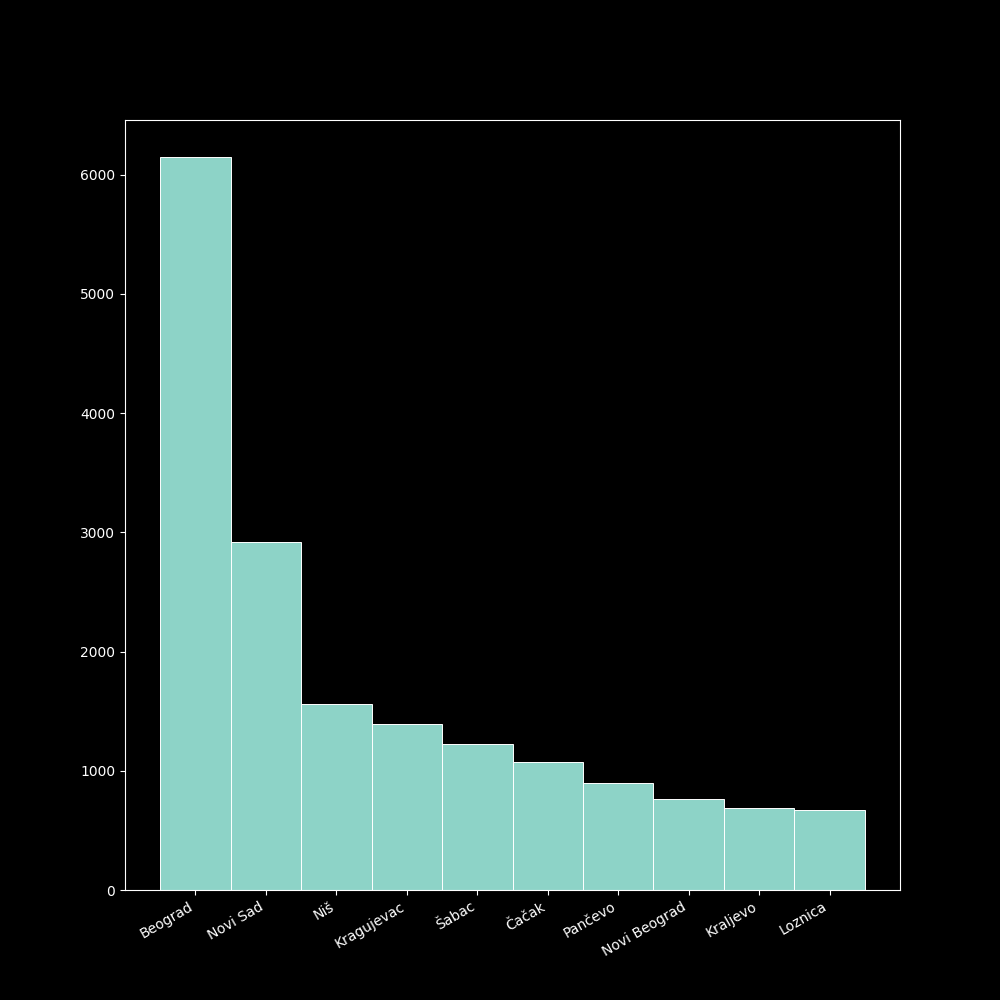
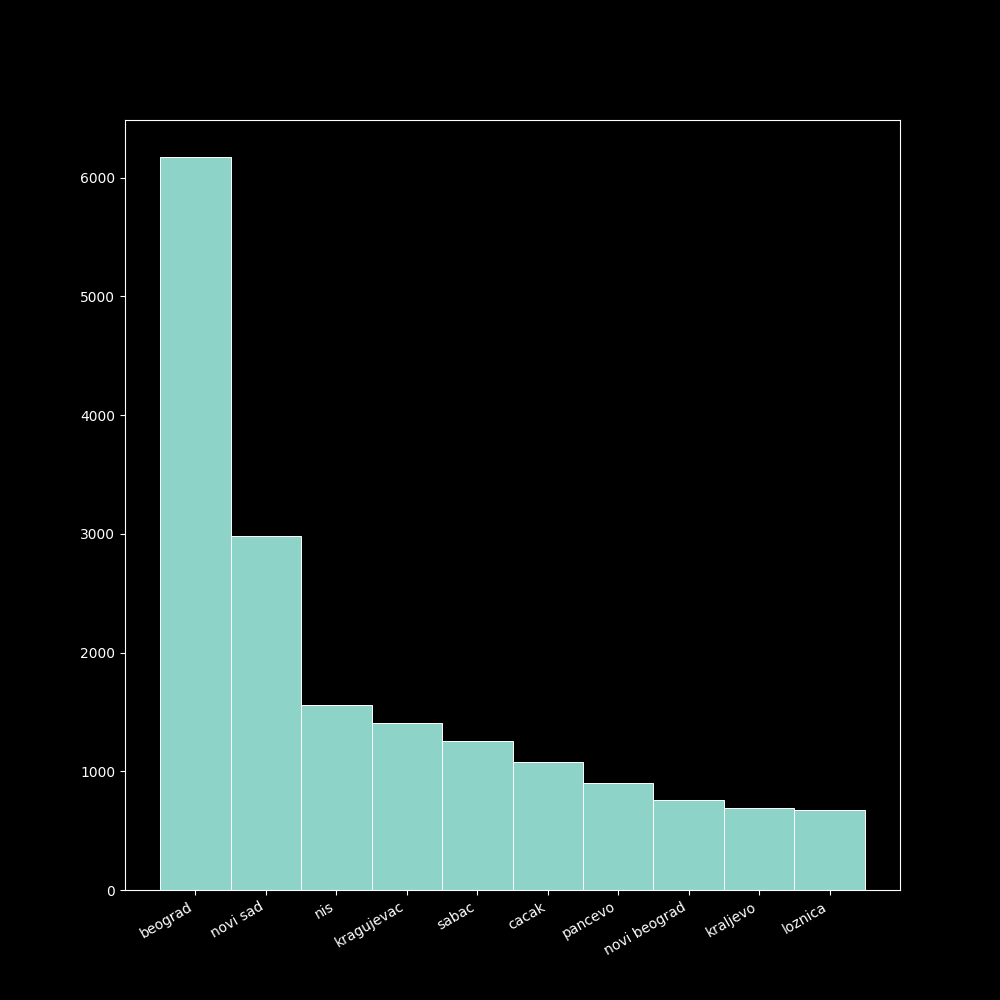
Minor touchup

diff --git a/scraper/ml/backend/exploratory_testing.py b/scraper/ml/backend/exploratory_testing.py
@@ -7,7 +7,7 @@ import seaborn as sb  # visualizations
 from sklearn.metrics import accuracy_score, r2_score, mean_squared_log_error
 import os
 import matplotlib.pyplot as plt
-
+import pandas as pd
 
 
 
@@ -69,19 +69,19 @@ cur.close()
 conn.close()
 
 lin_reg_data_normalized = data_prep.normalize(lin_reg_data, 'minmax')
-# knn_data_normalized = data_prep.normalize(knn_data, 'z-score')
-#
-# colors = sb.color_palette("husl", 8)
-# sb.pairplot(data=pd.concat([knn_data_normalized, pd.DataFrame(knn_result)], axis=1), hue='cena', palette=colors)
-# plt.savefig('./exploratory_testing_results/KNN_data_distribution.png')
+knn_data_normalized = data_prep.normalize(knn_data, 'z-score')
+
+colors = sb.color_palette("husl", 8)
+sb.pairplot(data=pd.concat([knn_data_normalized, pd.DataFrame(knn_result)], axis=1), hue='cena', palette=colors)
+plt.savefig('./exploratory_testing_results/KNN_data_distribution.png')
 
 # KNN
-# knn_data_train, knn_data_test, knn_result_train, knn_result_test = train_test_split(knn_data, knn_result,
-#                                                                                     test_size=0.33)
-# model = knn.EuclideanKNN(knn_data_train, knn_result_train)
-# KNN(model, knn_data_test, knn_result_test, "EUCLIDEAN MODEL")
-# model = knn.ManhattanKNN(knn_data_train, knn_result_train)
-# KNN(model, knn_data_test, knn_result_test, "MANHATTAN MODEL")
+knn_data_train, knn_data_test, knn_result_train, knn_result_test = train_test_split(knn_data, knn_result,
+                                                                                    test_size=0.33)
+model = knn.EuclideanKNN(knn_data_train, knn_result_train)
+KNN(model, knn_data_test, knn_result_test, "EUCLIDEAN MODEL")
+model = knn.ManhattanKNN(knn_data_train, knn_result_train)
+KNN(model, knn_data_test, knn_result_test, "MANHATTAN MODEL")
 
 # Ridge Regression
 

diff --git a/scraper/data_formatting/formatter.py b/scraper/data_formatting/formatter.py
@@ -14,6 +14,18 @@ def extract_number(cena):
     except:
         print('error')
 
+def format_serbian(x: str):
+    if type(x) == float:
+        return None
+    reg = '(.*)\(.*\)'
+    x = x.lower()
+    x = x.replace('š', 's').replace('č', 'c').replace('ć', 'c').replace('ž', 'z').replace('đ', 'dj')
+    t = re.findall(reg, x)
+    if len(t) == 1:
+        return t[0]
+    else:
+        return x
+
 def format_data():
     csv_file = pd.read_csv('../polovni_automobili_database_removed_newlines.csv')
 
@@ -21,7 +33,7 @@ def format_data():
     cena_regularna = csv_file['cena_regularna']
     kilometraza = csv_file['kilometraza']
     kubikaza = csv_file['kubikaza']
-
+    csv_file['grad'] = csv_file['grad'].apply(lambda x: format_serbian(x))
     csv_file['cena_popust'] = cena_popust.apply(lambda x: extract_number(x))
     csv_file['cena_regularna'] = cena_regularna.apply(lambda x: extract_number(x))
     csv_file['kilometraza'] = kilometraza.apply(lambda x: extract_number(x))
